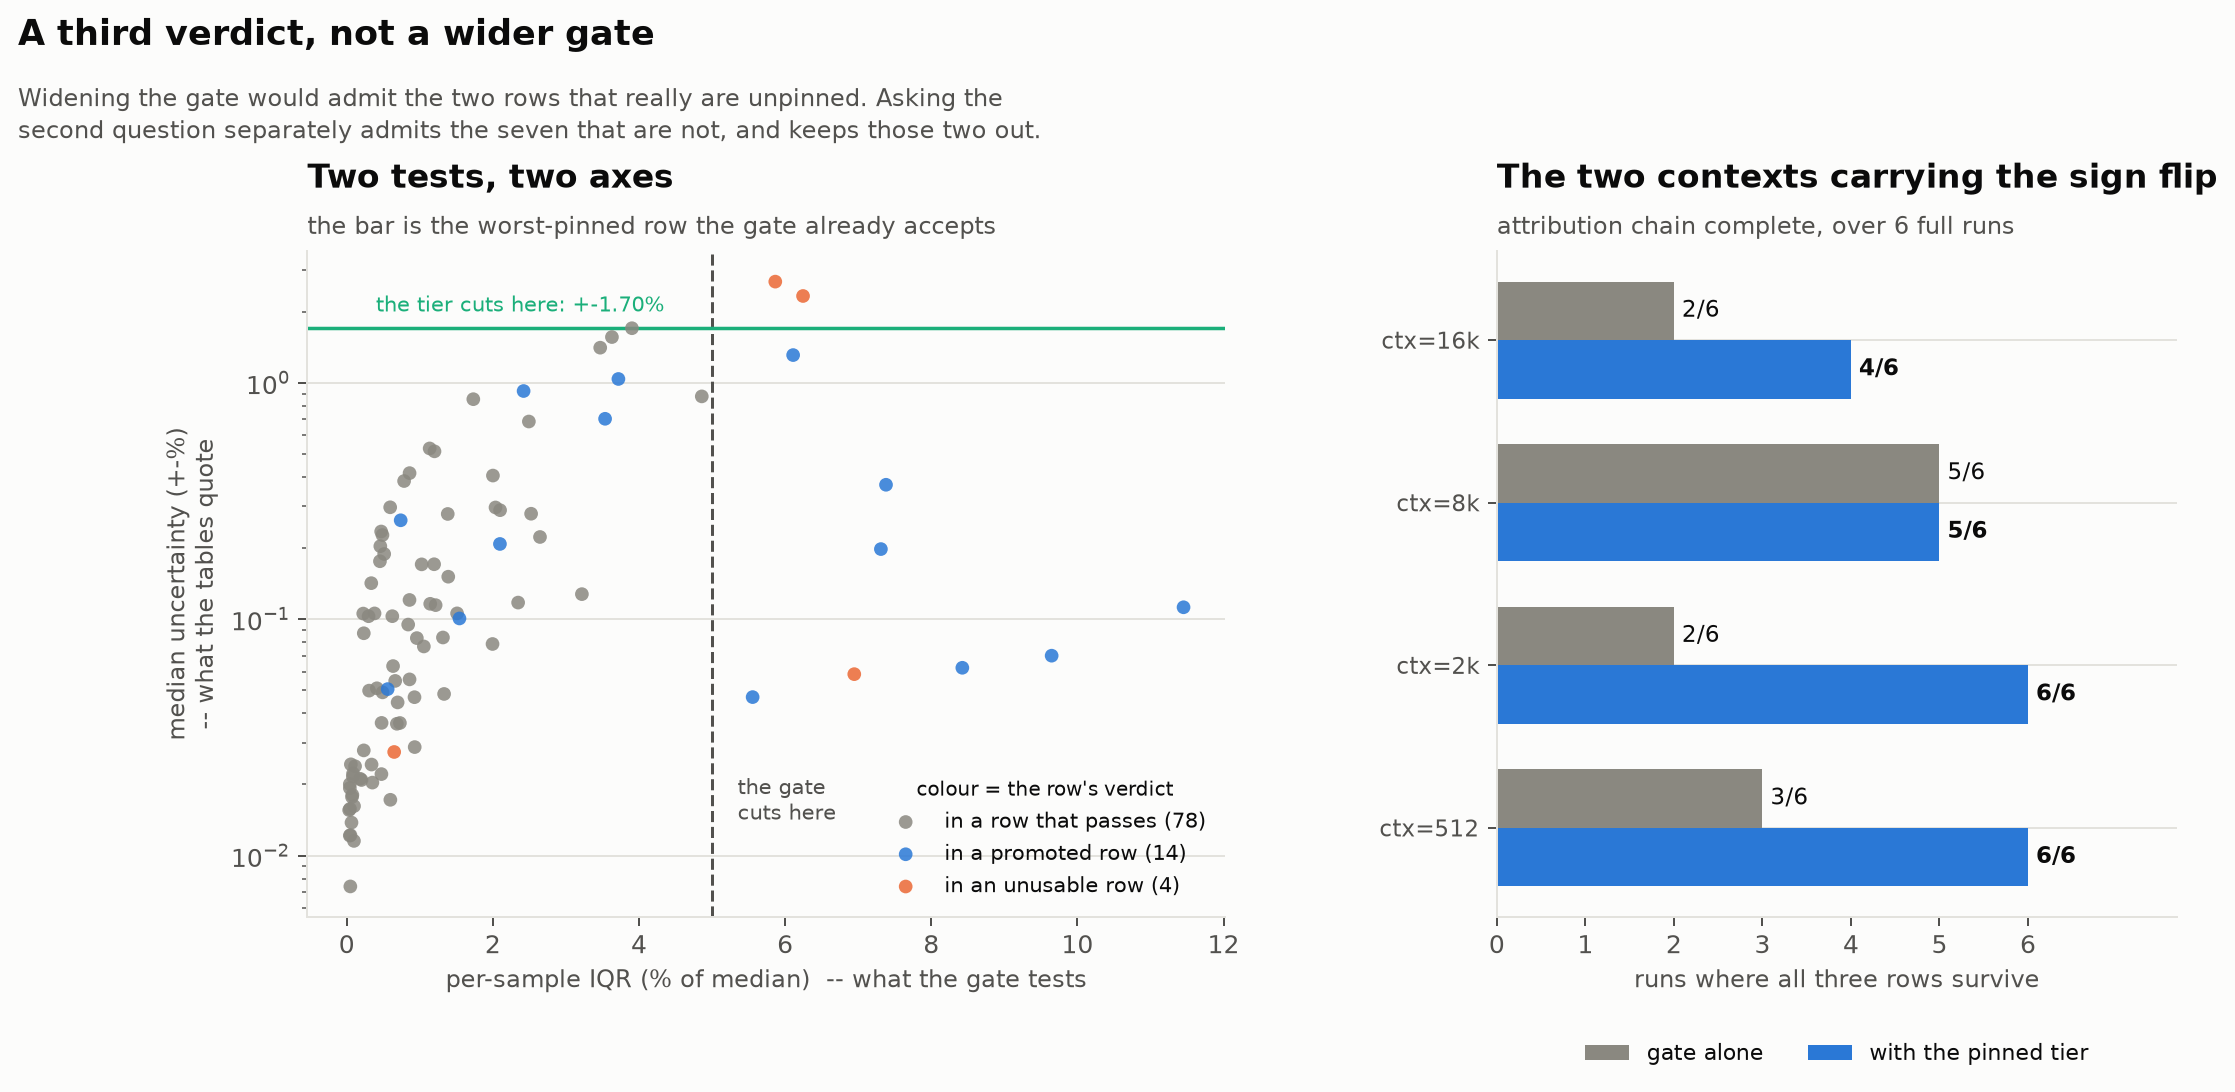
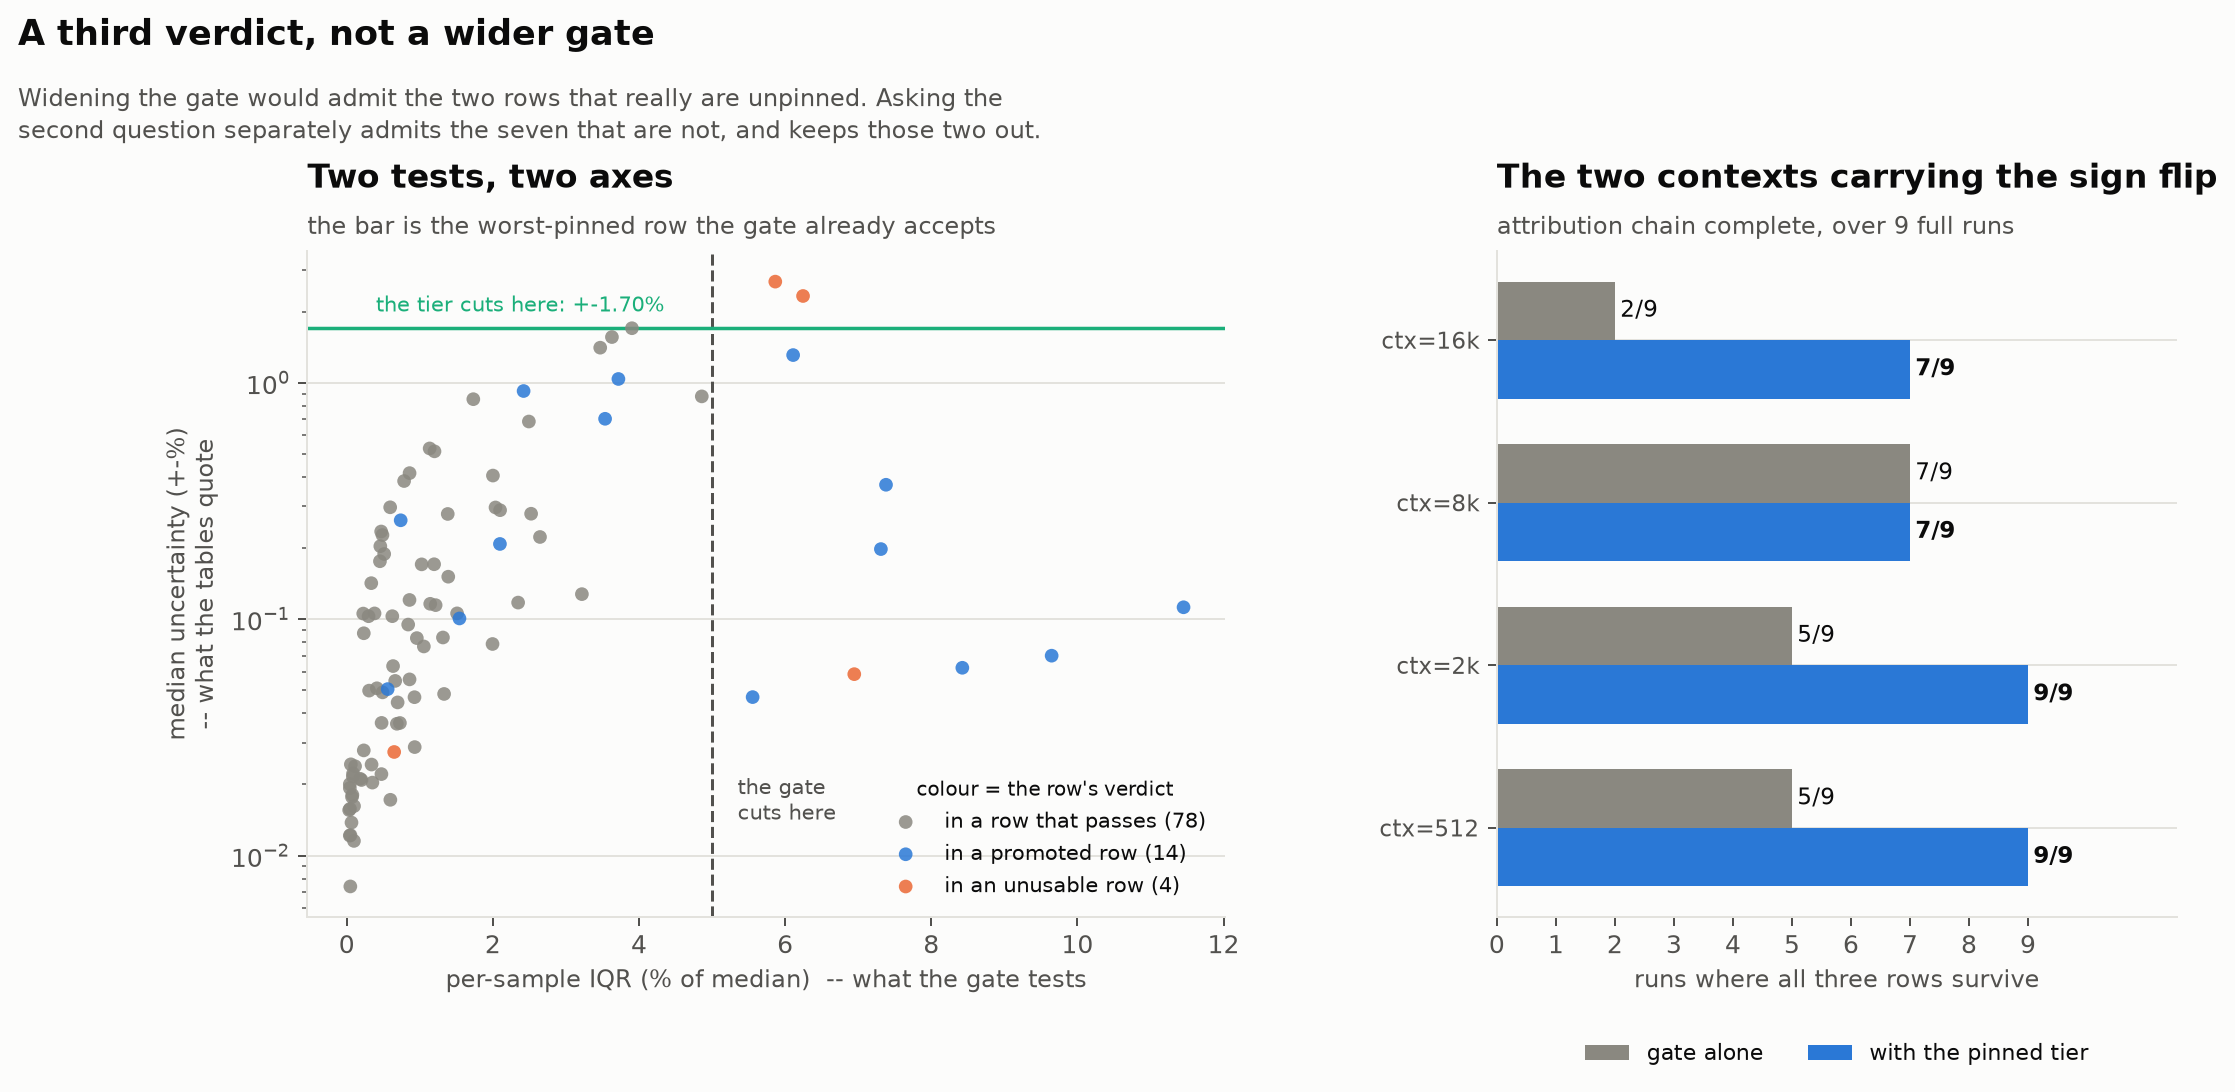
Restate the tier's coverage over nine runs and three protocols
The three reversed runs are full-method, so the dispersion tier's headline claim
can be measured over nine runs across three protocols instead of six across two.
It gets stronger where it matters:

  ctx     gate alone   gate + pinned tier
  512       5/9            9/9
  2048      5/9            9/9
  8192      7/9            7/9
  16384     2/9            7/9

The two contexts carrying the sign flip are now complete in every run on disk,
across three protocols that disagree with each other about the headline number.
ctx=16384 improves 2/9 -> 7/9, a much larger gain than the six-run 2/6 -> 4/6.
ctx=8192 is still untouched, for the same reason: where its chain is incomplete
the failure is a genuinely unpinned median.

Spanning three protocols is the point, not an accident -- the claim is that
promotion is a property of the run, so the denominator should be every
independently collected run rather than repetitions of one protocol. That also
sharpens the caveat: no row is promoted in more than four of the nine.

README, next_steps, key_numbers (including correction 10) and the figure all
restated from the same run list.

Claude-Session: https://claude.ai/code/session_01MhBNS4HHuY6QvpMibfFgXk

diff --git a/make_session_plots.py b/make_session_plots.py
@@ -635,9 +635,14 @@ def plot_dispersion(rows: list[dict]):
 
 # The six full runs the tier's coverage is reported over. Six, not one, because
 # promotion is a property of the run exactly as quotability is.
+# Every full-method run on disk, across three protocols. Three protocols rather
+# than one on purpose: the claim is that promotion is a property of the *run*, so
+# the denominator should span as many independently-collected runs as exist.
 FULL_RUNS = ("results/runs/run1.json", "results/runs/run2.json",
              "results/runs/run3.json", "results/tail/fullpre3.json",
-             "results/tail/fullpre4.json", "results/tail/fullpre5.json")
+             "results/tail/fullpre4.json", "results/tail/fullpre5.json",
+             "results/tail/reversed1.json", "results/tail/reversed2.json",
+             "results/tail/reversed3.json")
 
 # The rows the L2-residency conditional is built from. If all three survive at a
 # context, that context can carry the finding; if one is missing, it cannot.

diff --git a/docs/next_steps.md b/docs/next_steps.md
@@ -113,7 +113,7 @@ re-run it after any benchmark run without thinking about it:
    * **tier 3, rejected** -- everything else.
 
    The bar is read off the instrument per run, so it is not a new free
-   parameter, and across the six full runs it is stable at 1.43-1.96%. A
+   parameter, and across the nine full runs it is stable at 1.43-1.96%. A
    clock-rejected row is never eligible (the gate is not a P-state filter). Each
    tier-2 row carries `min_effect_frac` = 5x its own median uncertainty, and
    `usable_for(rec, effect)` is the per-claim test.
@@ -122,14 +122,15 @@ re-run it after any benchmark run without thinking about it:
    rejected are the two genuinely unpinned ones (+-2.33%, +-2.68%) — which is
    the reason the gate was not widened instead.
 
-   Attribution chain complete, over all six full runs:
+   Attribution chain complete, over all **nine** full-method runs (three
+   protocols):
 
    | ctx | gate only | with tier 2 |
    |---|---|---|
-   | 512 | 3/6 | **6/6** |
-   | 2048 | 2/6 | **6/6** |
-   | 8192 | 5/6 | 5/6 |
-   | 16384 | 2/6 | 4/6 |
+   | 512 | 5/9 | **9/9** |
+   | 2048 | 5/9 | **9/9** |
+   | 8192 | 7/9 | 7/9 |
+   | 16384 | 2/9 | **7/9** |
 
    ctx=512 and ctx=2048 — the two that carry the sign flip and that this file
    used to report with a "clears in one run and not the others" qualifier — are
@@ -137,7 +138,7 @@ re-run it after any benchmark run without thinking about it:
    run fails on a median genuinely pinned to only +-1.91%, not on dispersion.
 
    Applied post-hoc from the raw per-sample timings already in every results
-   JSON, so it covers all six full runs and the subset runs retroactively and
+   JSON, so it covers all nine full runs and the subset runs retroactively and
    `benchmark.py` is untouched. `python dispersion_tier.py` -> seconds, writes
    `results/dispersion_tier.{md,json}`.
 
@@ -154,7 +155,7 @@ re-run it after any benchmark run without thinking about it:
    (`make_session_plots.py`).
 
    Note that **promotion is a property of the run**, exactly as quotability is:
-   no row is promoted in all six full runs, and the most any manages is four.
+   no row is promoted in all nine full runs, and the most any manages is four.
    Report tier-2 coverage over runs, never from a single one.
 
 2. **Where the metadata-load curve actually bends.** `sweep_group_size.py` ran

diff --git a/docs/key_numbers.md b/docs/key_numbers.md
@@ -37,10 +37,11 @@ the fp16 control and the fused kernel all pass the gate there every time:
 **0.800–0.813× L2-resident, 1.469–1.478× DRAM-resident.**
 
 ctx=512 and ctx=2048 were previously quoted with "clears the gate in one run and
-not the others". Measured over six full runs and admitting the pinned tier, all
-three rows of the chain survive at **6/6** runs at both contexts (against 3/6 and
-2/6 on the gate alone). ctx=8192 is unchanged at 5/6 and ctx=16384 goes 2/6 →
-4/6. Promotion is still a property of the run — no row is promoted in all six —
+not the others". Measured over **nine** full-method runs spanning three
+protocols and admitting the pinned tier, all three rows of the chain survive at
+**9/9** at both contexts (against 5/9 on the gate alone). ctx=8192 is unchanged
+at 7/9 and ctx=16384 goes 2/9 → **7/9**. Promotion is still a property of the
+run — no row is promoted in more than four of the nine —
 so this is stated with a denominator, not as a star. Earlier versions of this
 claim rested on rows where the fp16 control had failed the gate.
 
@@ -246,9 +247,9 @@ unrealistically easy input for a quantizer.
     a wider gate, which would also admit the two rows pinned only to ±2.33% and
     ±2.68%; it is a second verdict whose bar is **the worst-pinned row the gate
     already accepts** (±1.70%), so it cannot admit anything less certain than a
-    number already printed unstarred. Over six full runs this takes the
-    attribution chain at ctx=512 from 3/6 runs to 6/6 and at ctx=2048 from 2/6 to
-    6/6 — the two contexts carrying the sign flip, previously quoted with an
+    number already printed unstarred. Over nine full runs this takes the
+    attribution chain at ctx=512 from 5/9 runs to 9/9 and at ctx=2048 from 5/9 to
+    9/9 — the two contexts carrying the sign flip, previously quoted with an
     apologetic qualifier. `dispersion_tier.py` measures it; `audit_claims.py`
     carries it as `method.dispersion_tier` and marks promoted rows `~`.
 

diff --git a/README.md b/README.md
@@ -110,14 +110,15 @@ ctx=512 and ctx=2048 used to be quoted with an apologetic "clears the gate in on
 run and not the others". That qualifier was wrong in a specific way: those rows
 were being rejected for their *per-sample* spread, while the number quoted from
 them is the *median*, and on rows this short the two come apart. Measured over
-six full runs, all three rows of the attribution chain survive at each context:
+**nine** full-method runs spanning three protocols, all three rows of the
+attribution chain survive at each context:
 
 | ctx | gate alone | gate + pinned tier |
 |---|---|---|
-| 512 | 3/6 | **6/6** |
-| 2048 | 2/6 | **6/6** |
-| 8192 | 5/6 | 5/6 |
-| 16384 | 2/6 | 4/6 |
+| 512 | 5/9 | **9/9** |
+| 2048 | 5/9 | **9/9** |
+| 8192 | 7/9 | 7/9 |
+| 16384 | 2/9 | **7/9** |
 
 The bar for the second tier is not a chosen number — it is the worst-pinned row
 the gate already accepts (±1.70% on run 3), so it cannot admit anything less
@@ -908,7 +909,7 @@ it failed the per-sample IQR gate but pins every regime's median at least as wel
 as *the worst row the gate itself accepts* — ±1.70% on run 3, from
 `fused_gather_meta_4b@512`, a row this README prints unstarred. The bar is read
 off the instrument per run rather than chosen, so the tier cannot admit a number
-less certain than one already quoted, and across six full runs it lands at
+less certain than one already quoted, and across nine full runs it lands at
 1.43–1.96%. Run 3: **39 quotable / 7 pinned / 2 rejected** of 48.
 
 The two that stay rejected are pinned to ±2.33% and ±2.68% — which is exactly why

diff --git a/docs/progress_log.md b/docs/progress_log.md
@@ -2202,3 +2202,32 @@ collected for something else.
 
 That is not a satisfying place to leave it. It is the correct one, and it is
 cheaper than the alternative, which is a mechanism nobody can reproduce.
+
+## The tier's coverage, restated over nine runs
+
+The three reversed runs are full-method, so the dispersion tier's headline claim
+can now be measured over **nine** runs spanning **three** protocols rather than
+six over two. It gets stronger, and in the place that matters:
+
+| ctx | gate alone | gate + pinned tier |
+|---|---|---|
+| 512 | 5/9 | **9/9** |
+| 2048 | 5/9 | **9/9** |
+| 8192 | 7/9 | 7/9 |
+| 16384 | 2/9 | **7/9** |
+
+The two contexts carrying the sign flip are complete in **every run on disk**,
+across three protocols that disagree with each other about the headline number.
+ctx=16384 improves from 2/9 to 7/9 — a much larger gain than the 2/6 → 4/6 the
+six-run version showed. ctx=8192 is still untouched by the tier, for the same
+reason as before: where its chain is incomplete, the failure is a median that is
+genuinely unpinned.
+
+Spanning three protocols is the point rather than an accident. The claim being
+made is that promotion is a property of the *run*, so the denominator should be
+as many independently collected runs as exist, not as many repetitions of one
+protocol. That also makes the caveat sharper: **no row is promoted in more than
+four of the nine.**
+
+`make_session_plots.py` draws the figure from the same list, so
+`docs/plots/dispersion_tier.png` is regenerated with the nine-run denominator.
